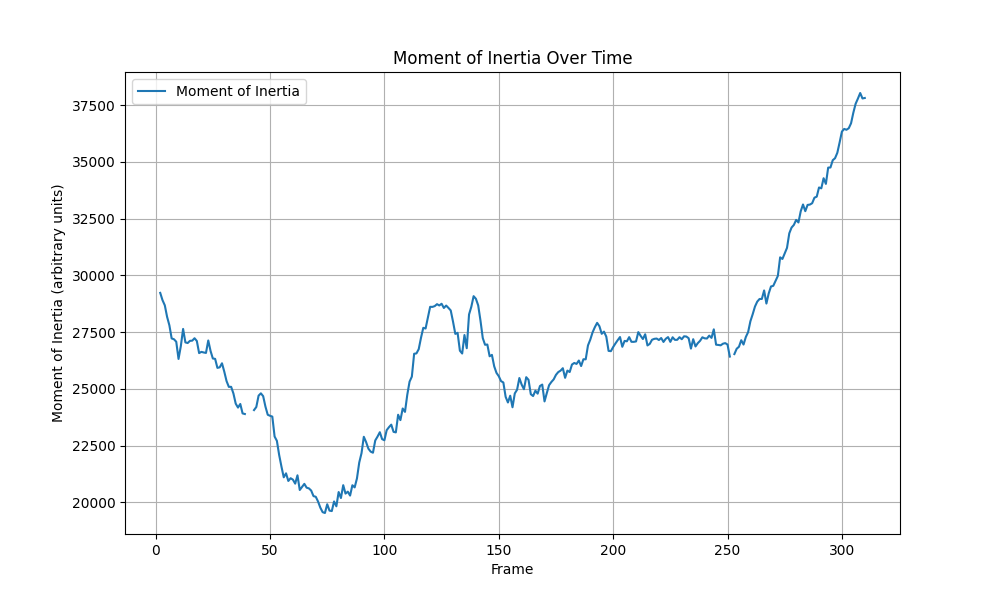
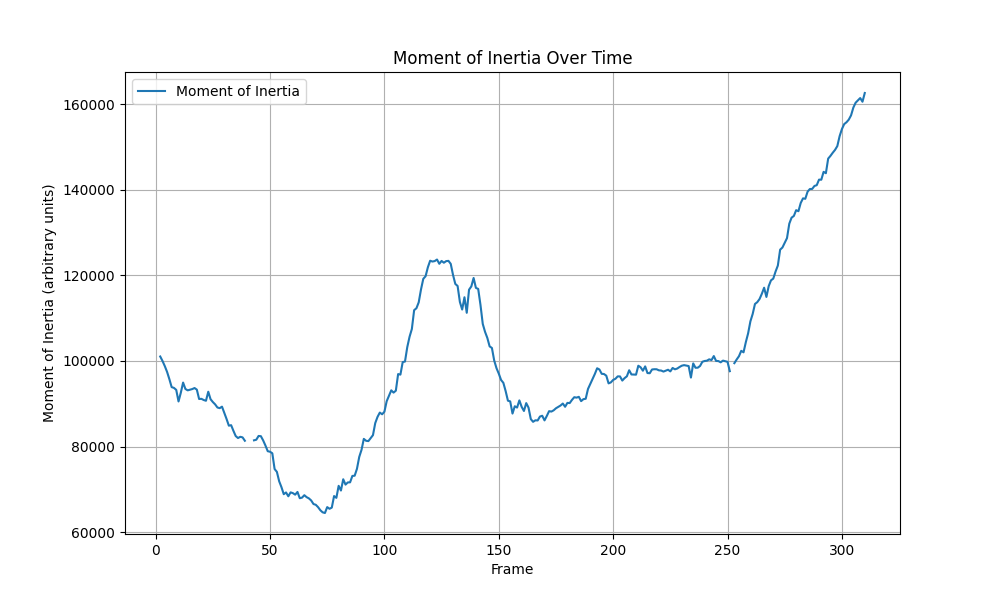
Revert to Point Mass calculation of Inertia. Add mean line to L=Iω

diff --git a/Test.py b/Test.py
@@ -112,22 +112,6 @@ plt.grid(True)
 plt.legend()
 plt.savefig('angular_momentum_relative.png')
 
-# You might also want to smooth the data to reduce noise
-window_size = 5  # Adjust as needed
-smoothed_angular_momentum = np.convolve(angular_momentum,
-                                        np.ones(window_size) / window_size,
-                                        mode='valid')
-
-plt.figure(figsize=(10, 6))
-plt.plot(smoothed_angular_momentum, linewidth=2)
-plt.axhline(y=float(np.mean(smoothed_angular_momentum)), color='r', linestyle='--', alpha=0.7,
-            label=f'Mean: {float(np.mean(smoothed_angular_momentum)):.2f}')
-plt.xlabel('Frame')
-plt.ylabel('Angular Momentum (smoothed)')
-plt.title('Smoothed Angular Momentum During Cat Falling')
-plt.grid(True)
-plt.legend()
-plt.savefig('angular_momentum_smoothed.png')
 
 # Calculate and plot net rotation
 # Use the angle between two vectors (e.g., head-COM and tail-COM)
@@ -169,12 +153,12 @@ plt.savefig('cat_configuration_angle.png')
 angles_rad = np.radians(angles)
 
 # Angular velocity = derivative of angle (in radians) with respect to time
-omega = np.gradient(angles_rad)  # If time step is 1 frame per unit
+omega_rad = np.gradient(angles_rad)  # If time step is 1 frame per unit
 
 
 
-#masses = np.ones(len(x_coords))  # Assuming equal mass
-masses = np.array([0.12, 0.20, 0.20, 0.24, 0.24, 2.40, 0.60])
+masses = np.ones(len(x_coords))  # Assuming equal mass
+#masses = np.array([0.12, 0.20, 0.20, 0.24, 0.24, 2.40, 0.60]) #average masses of different parts of a cat
 
 I = np.zeros(len(data))
 
@@ -185,26 +169,27 @@ for i in range(len(x_coords)):
     ry = y_coords[i] - y_com
     r_squared = rx**2 + ry**2
     I += masses[i] * r_squared  # Or just I += r_squared if mass=1
-# Estimate angular velocity (change in orientation over time)
 
-x_head0 = x_coords[6][0]
-y_head0 = y_coords[6][0]
-x_com0 = x_coords[5][0]
-y_com0 = y_coords[5][0]
+
+
+#x_head0 = x_coords[6][0]
+#y_head0 = y_coords[6][0]
+#x_com0 = x_coords[5][0]
+#y_com0 = y_coords[5][0]
 
 # Compute pixel distance from head to center
-head_to_com_px = np.sqrt((x_head0 - x_com0)**2 + (y_head0 - y_com0)**2)
-body_length_px = 2 * head_to_com_px
+#head_to_com_px = np.sqrt((x_head0 - x_com0)**2 + (y_head0 - y_com0)**2)
+#body_length_px = 2 * head_to_com_px
 
 # Estimate torso length (about 40% of body) and radius (~15% of that)
-torso_length_px = 0.4 * body_length_px
-torso_radius_px = 0.15 * torso_length_px
+#torso_length_px = 0.4 * body_length_px
+#torso_radius_px = 0.15 * torso_length_px
 
-I += 0.5*6*torso_radius_px**2
-omega = np.gradient(angles)  # degrees per frame
 
-# Convert degrees/frame to radians/frame for use in L = Iω
-omega_rad = np.radians(omega)
+#Inertia of Cylinder I = 0.5mr^2
+#average torso weight of a housecat = 6 kg
+#I += 0.5*6*torso_radius_px**2 #
+
 
 # Angular momentum
 L = I * omega_rad
@@ -212,14 +197,14 @@ L = I * omega_rad
 # Plot angular momentum
 plt.figure(figsize=(10, 6))
 plt.plot(L, linewidth=2)
-plt.axhline(y=float(np.mean(L)), color='r', linestyle='--', alpha=0.7,
-           label=f'Mean: {float(np.mean(L)):.2f}')
+plt.axhline(y=float(np.nanmean(L)), color='r', linestyle='--', alpha=0.7,
+           label=f'Mean: {float(np.nanmean(L)):.2f}')
 plt.xlabel('Frame')
 plt.ylabel('Angular Momentum (Iω, arbitrary units)')
-plt.title('Angular Momentum with Non-Uniform Mass Distribution')
+plt.title('Angular Momentum Through L=Iω')
 plt.grid(True)
 plt.legend()
-plt.savefig('angular_momentum_nonuniform.png')
+plt.savefig('angular_momentum_lw.png')
 
 
 # Plot the moment of inertia over time
